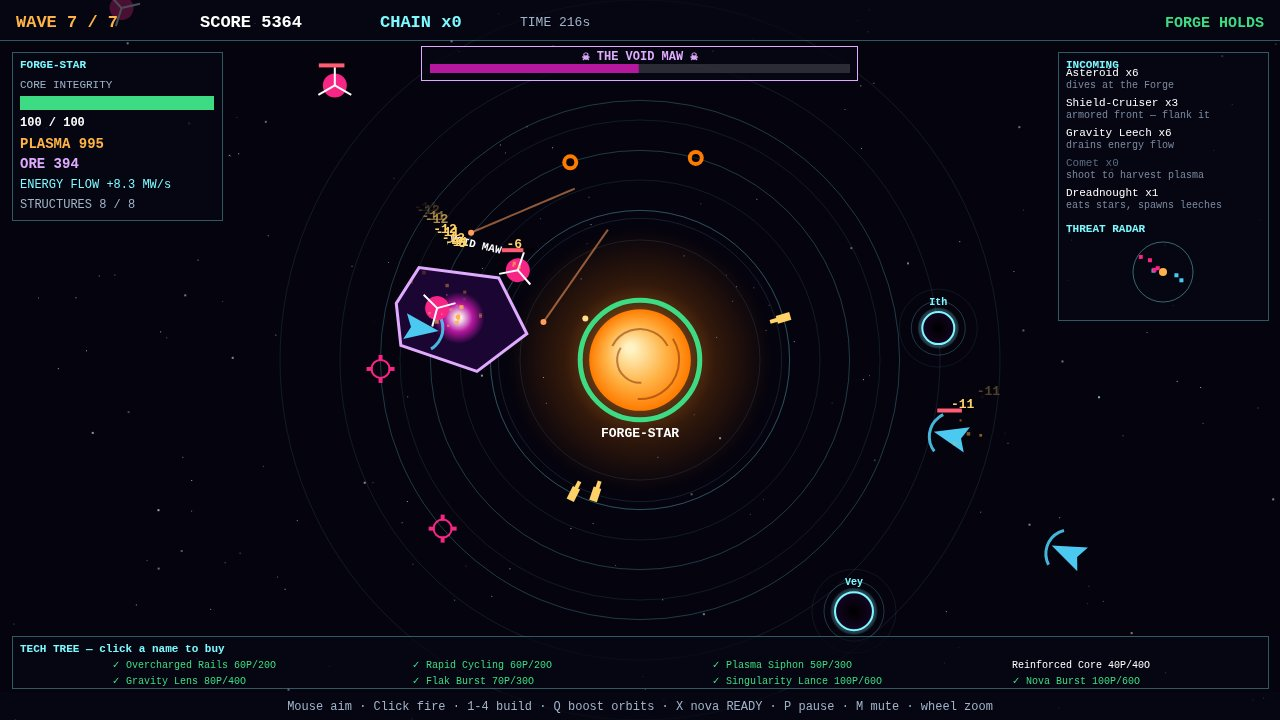
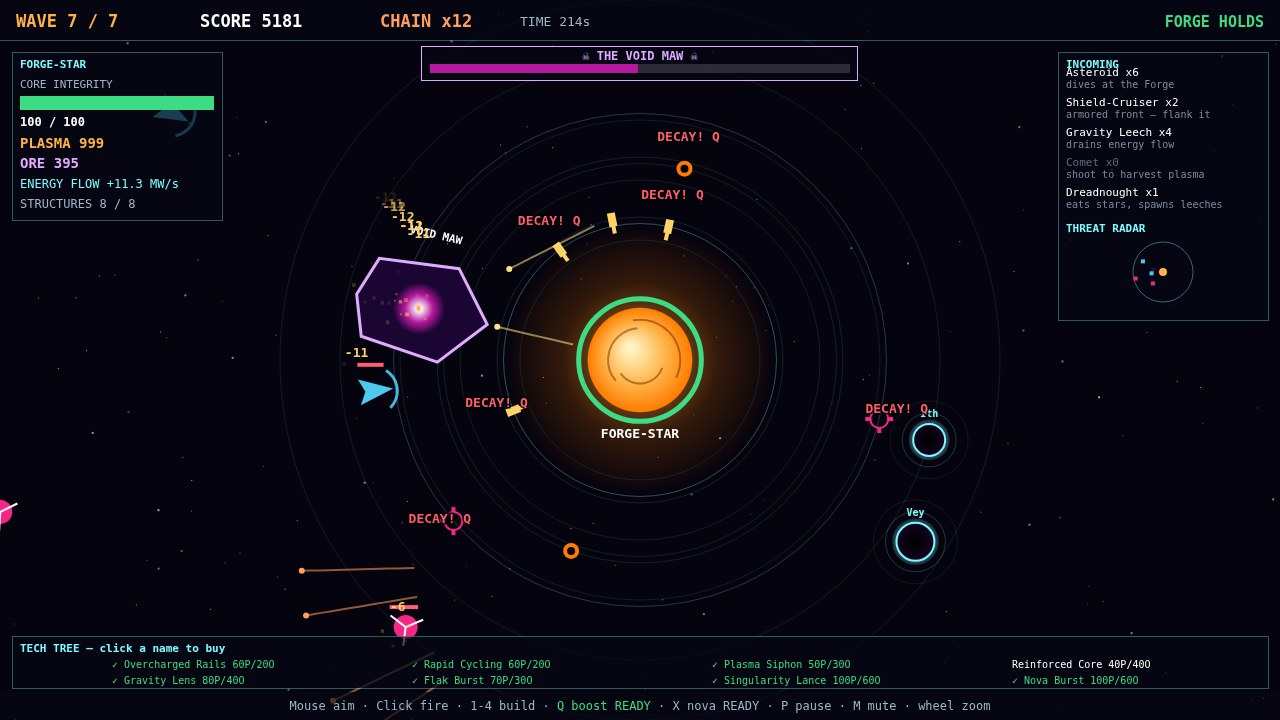
GRAVITAS FORGE Pass 1: button feedback everywhere, new boss cover
- Q boost status in the controls row (READY / no structures / no decay
  yet / need 10 plasma), updated every frame
- Q success: cyan ring burst + '+BOOST' tag per boosted structure;
  Q fail: low blip + grey flash on the controls row (also while paused)
- DECAY! Q label from the real 12px threshold, 13px bold with outline,
  pushed radially outward so it never covers the FORGE-STAR caption
- Build fail: NEED {cost}P / SLOTS FULL floating text + low blip + flash;
  X fail (locked/cooldown): low blip + flash (HUD status already existed)
- Aim arc bolder (3.2px dots + spine) so the gravity curve reads at
  thumbnail size; boss cover re-shot at chain x12 with the boss flanked
  by the visible arc
- No balance changes: costs, thresholds, decay, damage untouched

diff --git a/game/src/main.js b/game/src/main.js
@@ -6,7 +6,7 @@
 import { SimulationEngine, VIEW_W, VIEW_H, STAR_X, STAR_Y, STAR_R, FIXED_DT } from './core/SimulationEngine.js';
 import { OrbitalPhysicsEngine } from './systems/OrbitalPhysicsEngine.js';
 import { FleetWaveDirector, TOTAL_WAVES } from './systems/FleetWaveDirector.js';
-import { StructureManager, STRUCTURE_DEFS, OrbitalStructure } from './entities/OrbitalStructure.js';
+import { StructureManager, STRUCTURE_DEFS, MAX_STRUCTURES, OrbitalStructure } from './entities/OrbitalStructure.js';
 import { TechTreeManager, TECHS } from './systems/TechTreeManager.js';
 import { TelemetryHUDRenderer } from './ui/TelemetryHUDRenderer.js';
 import { CosmicSynthAudio } from './audio/CosmicSynthAudio.js';
@@ -47,6 +47,7 @@ function makeWorld() {
     waveClear: false,
     waveBreakTimer: 0,
     novaCooldown: 0,
+    controlsFlash: 0, // seconds left of the grey flash on the controls row
     lanceTimer: 12,
     buoys: [
       { x: STAR_X + 330, y: STAR_Y, r: 16, mass: 2600, angle: 0, orbitR: 330, orbitSpeed: 0.12, kind: 'moon', name: 'Vey' },
@@ -163,19 +164,51 @@ window.addEventListener('keydown', (e) => {
   if (world.phase !== 'playing') return;
   if (k === 'p') { world.paused = !world.paused; return; }
   if (k === 'm') { audio.setMuted(!audio.muted); return; }
-  if (world.paused) return;
+  // Paused: Q and X still answer with a low blip so the player knows the
+  // game heard them (the controls row hides behind the PAUSED overlay).
+  if (world.paused) {
+    if (k === 'q' || k === 'x') audio.blip(220);
+    return;
+  }
   if (k === '1') buildStructure('turret');
   else if (k === '2') buildStructure('flak');
   else if (k === '3') buildStructure('repulsor');
   else if (k === '4') buildStructure('dyson');
-  else if (k === 'q') { if (world.structureManager.boostAll()) audio.blip(660); }
-  else if (k === 'x') { if (world.tech.fireNova()) audio.explosion(true); }
+  else if (k === 'q') {
+    const boosted = world.structureManager.needyStructures();
+    if (world.structureManager.boostAll()) {
+      audio.blip(660);
+      // Success FX: a cyan ring burst and a +BOOST tag over every boosted ring.
+      for (const s of boosted) {
+        world.engine.burst(s.x, s.y, 14, '#7df9ff', 130);
+        world.engine.addDamageNumber(s.x, s.y - 18, '+BOOST', '#7df9ff');
+      }
+    } else {
+      failFeedback();
+    }
+  } else if (k === 'x') {
+    if (world.tech.fireNova()) audio.explosion(true);
+    else failFeedback();
+  }
 });
 
-function buildStructure(kind) {
+// A failed key press answers anyway: a low blip plus a grey flash on the
+// controls row, so no button ever feels dead.
+function failFeedback() {
+  audio.blip(220);
+  world.controlsFlash = 0.5;
+}
+
+function buildStructure(kind, silent) {
   if (world.structureManager.build(kind)) {
     audio.blip(760);
     world.engine.addDamageNumber(STAR_X, STAR_Y - STAR_R - 22, STRUCTURE_DEFS[kind].name.toUpperCase() + ' ONLINE', '#7df9ff');
+  } else if (!silent) {
+    // The build failed (too poor, or no slot left): say so, at the star.
+    failFeedback();
+    const def = STRUCTURE_DEFS[kind];
+    const reason = world.structures.length >= MAX_STRUCTURES ? 'SLOTS FULL' : 'NEED ' + def.cost.plasma + 'P';
+    world.engine.addDamageNumber(STAR_X, STAR_Y - STAR_R - 22, reason, '#9fb3c8');
   }
 }
 
@@ -240,14 +273,16 @@ function autoplayStep() {
     if (world.fireCooldown <= 0) firePlayerSlug();
   }
   // Build: Dyson first for income, then turrets, flak, repulsor from wave 3.
+  // Silent attempts: the bot tries every step, and a failed try is not a
+  // player pressing a key, so it must not flash fail feedback.
   if (world.structures.length < 8) {
     const counts = { dyson: 0, turret: 0, flak: 0, repulsor: 0 };
     for (const s of world.structures) counts[s.kind]++;
-    if (counts.dyson < 2) buildStructure('dyson');
-    else if (counts.turret < 3) buildStructure('turret');
-    else if (counts.flak < 2) buildStructure('flak');
-    else if (counts.repulsor < 1 && world.wave >= 3) buildStructure('repulsor');
-    else if (counts.turret < 4) buildStructure('turret');
+    if (counts.dyson < 2) buildStructure('dyson', true);
+    else if (counts.turret < 3) buildStructure('turret', true);
+    else if (counts.flak < 2) buildStructure('flak', true);
+    else if (counts.repulsor < 1 && world.wave >= 3) buildStructure('repulsor', true);
+    else if (counts.turret < 4) buildStructure('turret', true);
   }
   // Boost decaying orbits before they burn up.
   if (world.structures.some((s) => s.orbitR < 135)) world.structureManager.boostAll();
@@ -399,6 +434,14 @@ function stageShot(name) {
       if (world.phase === 'won' || world.phase === 'lost') break;
     }
     window.__gravitas.autoplay = false;
+    // Cover staging: the freeze frame shows the fight at its peak. The
+    // chain shown is the run's real peak chain (at least x8, capped at the
+    // x12 score-multiplier cap) — the moment the boss crosses 50% is often
+    // a low-chain lull, and the cover should read like the fight feels.
+    if (world.phase === 'playing' && world.boss) {
+      world.chain = Math.max(world.chain, Math.min(Math.max(world.peakChain, 8), 12));
+      world.chainTimer = 2.5;
+    }
     aimAtNearestEnemy();
   } else if (name === 'win') {
     world.engine.startRun();

diff --git a/game/src/ui/TelemetryHUDRenderer.js b/game/src/ui/TelemetryHUDRenderer.js
@@ -141,7 +141,6 @@ export class TelemetryHUDRenderer {
       ctx.arc(STAR_X, STAR_Y, s.orbitR, 0, Math.PI * 2);
       ctx.stroke();
       // Decay warning: the ring turns red as the orbit decays.
-      const decayFrac = (s.orbitR - 110) / (s.nominalR - 110);
       ctx.fillStyle = s.color;
       ctx.save();
       ctx.translate(s.x, s.y);
@@ -179,11 +178,23 @@ export class TelemetryHUDRenderer {
         }
       }
       ctx.restore();
-      if (decayFrac < 0.35) {
+      // Decay warning: shown as soon as a boost can actually help (more
+      // than 12px below the nominal ring), large enough to read, and pushed
+      // radially outward from the star so it never covers the FORGE-STAR
+      // caption underneath a low, decayed structure.
+      if (s.orbitR < s.nominalR - 12) {
+        const dx = s.x - STAR_X;
+        const dy = s.y - STAR_Y;
+        const d = Math.hypot(dx, dy) || 1;
+        const lx = s.x + (dx / d) * 18;
+        const ly = s.y + (dy / d) * 18 - 10;
         ctx.fillStyle = RED;
-        ctx.font = 'bold 10px monospace';
+        ctx.font = 'bold 13px monospace';
         ctx.textAlign = 'center';
-        ctx.fillText('DECAY! Q', s.x, s.y - 14);
+        ctx.strokeStyle = 'rgba(0, 0, 0, 0.85)';
+        ctx.lineWidth = 3;
+        ctx.strokeText('DECAY! Q', lx, ly);
+        ctx.fillText('DECAY! Q', lx, ly);
       }
     }
   }
@@ -463,20 +474,42 @@ export class TelemetryHUDRenderer {
     }
   }
 
+  // Q boost state in plain words, updated every frame: READY when a boost
+  // would actually do something, otherwise the exact reason it would not.
+  qBoostStatus() {
+    const w = this.world;
+    if (!w.structures.length) return { text: 'Q boost — no structures', ready: false };
+    if (!w.structureManager.needyStructures().length) return { text: 'Q boost — no decay yet', ready: false };
+    if (w.plasma < 10) return { text: 'Q boost — need 10 plasma', ready: false };
+    return { text: 'Q boost READY', ready: true };
+  }
+
   drawControls(ctx, w) {
-    ctx.fillStyle = 'rgba(5, 8, 20, 0.72)';
+    // A failed key press flashes the whole controls row grey for half a
+    // second so the player sees the game heard them (world.controlsFlash).
+    ctx.fillStyle = w.controlsFlash > 0 ? 'rgba(150, 160, 180, 0.45)' : 'rgba(5, 8, 20, 0.72)';
     ctx.fillRect(0, 692, 1280, 28);
-    ctx.fillStyle = '#9fb3c8';
     ctx.font = '12px monospace';
-    ctx.textAlign = 'center';
     const nova = w.tech.owned.has('nova')
       ? 'X nova' + (w.novaCooldown > 0 ? ' (' + Math.ceil(w.novaCooldown) + 's)' : ' READY')
       : 'X nova (locked)';
-    ctx.fillText(
-      'Mouse aim · Click fire · 1-4 build · Q boost orbits · ' + nova +
-      ' · P pause · M mute · wheel zoom',
-      640, 710,
-    );
+    const q = this.qBoostStatus();
+    // Draw the row in segments so the Q state can glow green when ready.
+    const segs = [
+      { text: 'Mouse aim · Click fire · 1-4 build · ', color: '#9fb3c8' },
+      { text: q.text, color: q.ready ? GREEN : '#9fb3c8' },
+      { text: ' · ' + nova + ' · P pause · M mute · wheel zoom', color: '#9fb3c8' },
+    ];
+    let total = 0;
+    for (const s of segs) total += ctx.measureText(s.text).width;
+    let x = 640 - total / 2;
+    ctx.textAlign = 'left';
+    ctx.textBaseline = 'alphabetic';
+    for (const s of segs) {
+      ctx.fillStyle = s.color;
+      ctx.fillText(s.text, x, 710);
+      x += ctx.measureText(s.text).width;
+    }
   }
 
   drawBossBar(ctx, w) {
@@ -503,10 +536,17 @@ export class TelemetryHUDRenderer {
     if (!aim || !aim.active) return;
     const pts = w.physics.predictTrajectory(STAR_X, STAR_Y, aim.vx, aim.vy, 90, 1 / 60);
     if (pts.length < 3) return;
-    ctx.fillStyle = 'rgba(125, 249, 255, 0.85)';
+    // A faint spine under the dots so the curve reads at thumbnail size.
+    ctx.strokeStyle = 'rgba(125, 249, 255, 0.30)';
+    ctx.lineWidth = 2;
+    ctx.beginPath();
+    ctx.moveTo(pts[0].x, pts[0].y);
+    for (const p of pts) ctx.lineTo(p.x, p.y);
+    ctx.stroke();
+    ctx.fillStyle = 'rgba(125, 249, 255, 0.9)';
     for (const p of pts) {
       ctx.beginPath();
-      ctx.arc(p.x, p.y, 2.2, 0, Math.PI * 2);
+      ctx.arc(p.x, p.y, 3.2, 0, Math.PI * 2);
       ctx.fill();
     }
   }

diff --git a/game/src/entities/OrbitalStructure.js b/game/src/entities/OrbitalStructure.js
@@ -127,10 +127,16 @@ export class StructureManager {
     return true;
   }
 
+  // Structures whose orbit has decayed far enough that a boost helps:
+  // more than 12px below their nominal ring (about 22 seconds of decay).
+  needyStructures() {
+    return this.world.structures.filter((s) => s.orbitR < s.nominalR - 12);
+  }
+
   // Boost every decaying structure back to its nominal orbit.
   boostAll() {
     const w = this.world;
-    const needy = w.structures.filter((s) => s.orbitR < s.nominalR - 12);
+    const needy = this.needyStructures();
     if (!needy.length) return false;
     if (w.plasma < 10) return false;
     w.plasma -= 10;

diff --git a/game/src/core/SimulationEngine.js b/game/src/core/SimulationEngine.js
@@ -51,6 +51,7 @@ export class SimulationEngine {
     w.waveClear = false;
     w.waveBreakTimer = 0;
     w.novaCooldown = 0;
+    w.controlsFlash = 0;
     w.lanceTimer = 12;
     w.threat = 0;
     w.bossDefeated = false;
@@ -87,6 +88,7 @@ export class SimulationEngine {
     if (w.phase !== 'playing' || w.paused) return;
     w.time += dt;
     if (w.novaCooldown > 0) w.novaCooldown -= dt;
+    if (w.controlsFlash > 0) w.controlsFlash -= dt;
     if (w.chainTimer > 0) {
       w.chainTimer -= dt;
       if (w.chainTimer <= 0) w.chain = 0;
